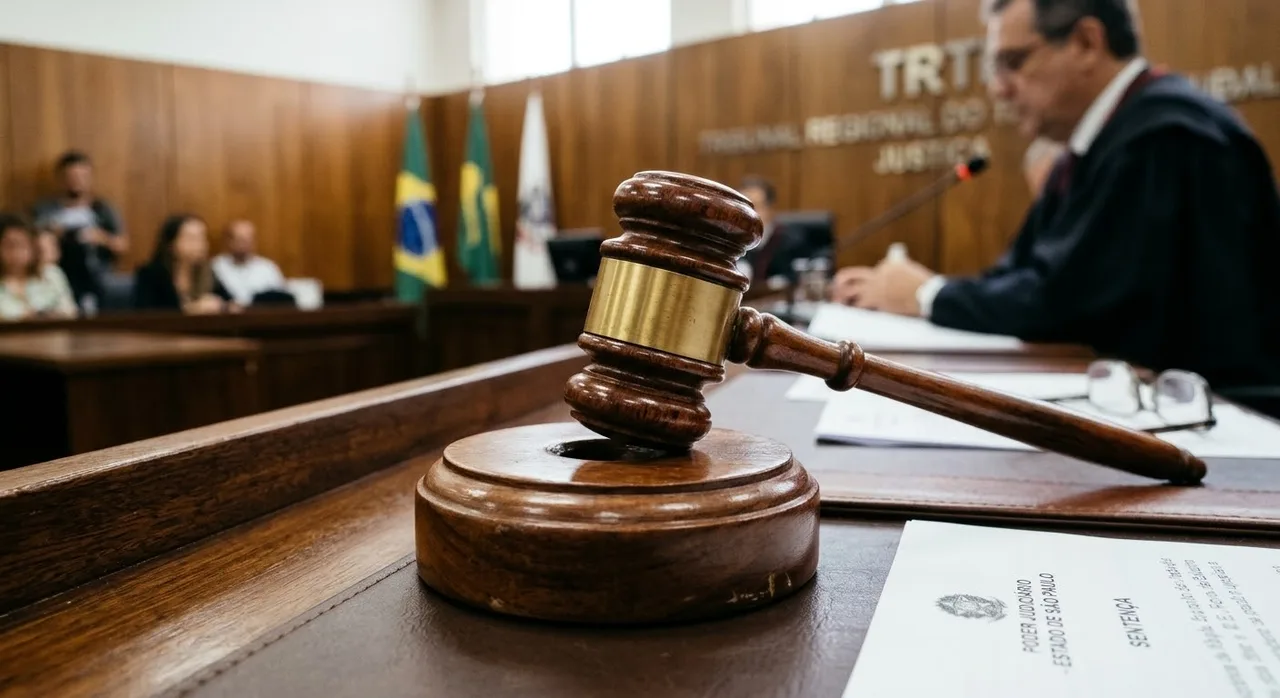
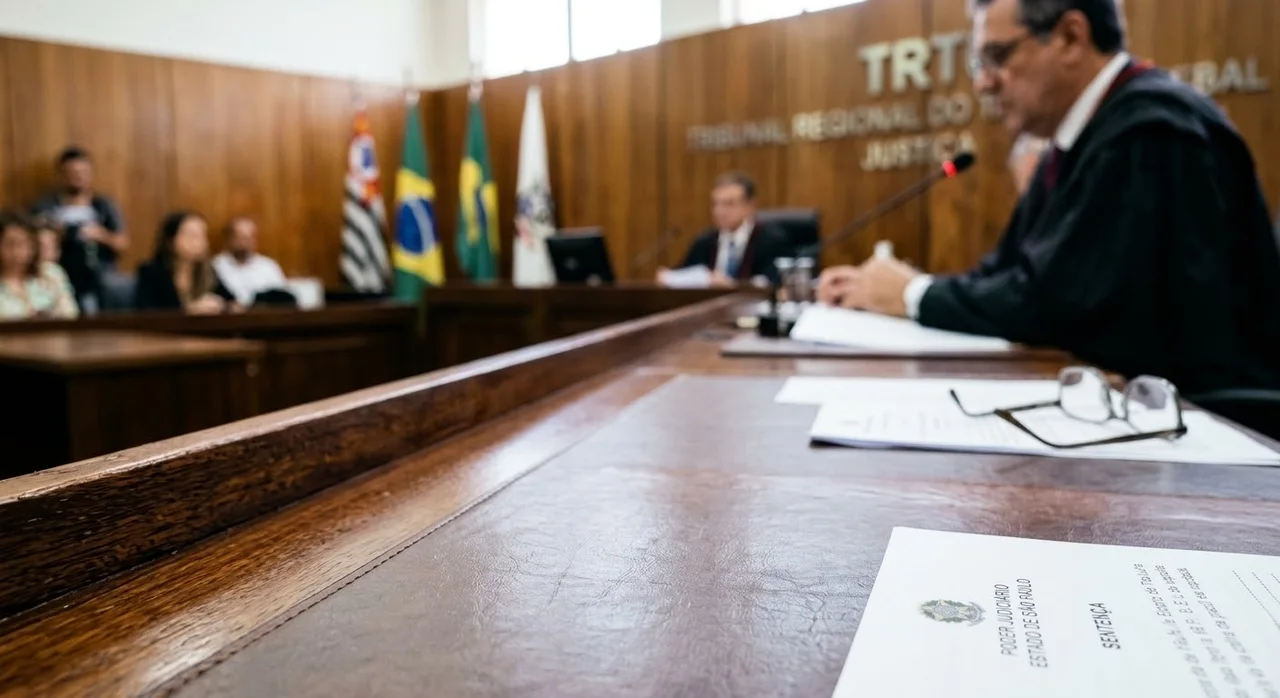
Hangar Escola: novas fotos nos capítulos 11, 14, 15 e 16 do Gol 1907
Claude-Session: https://claude.ai/code/session_01PxKViBYL6qRqF4hkoHqSJb

diff --git a/aviao/desastres.js b/aviao/desastres.js
@@ -706,7 +706,7 @@ const ACIDENTES = [
     p: ["Em 2018, a empresa de exploração do fundo do mar Ocean Infinity propôs à Malásia um acordo diferente: faria a busca por conta própria e só seria paga se encontrasse o avião. Com vários robôs submarinos trabalhando ao mesmo tempo, vasculhou mais de 100.000 km² em poucos meses, ao norte da área anterior. Não encontrou nada.", "Em 2025, onze anos depois do desaparecimento, a Malásia assinou um novo contrato com a empresa, numa nova área considerada provável. As buscas começaram no início de 2025, foram interrompidas pelo mau tempo e recomeçaram no fim de dezembro.", "Em 23 de janeiro de 2026, o navio deixou a área. Em 8 de março de 2026, no 12º aniversário do desaparecimento, a empresa anunciou que tinha vasculhado cerca de metade da área combinada, sem encontrar o avião. “Ele não está onde procuramos”, disse o diretor da empresa.", "Em junho de 2026, o governo da Malásia prorrogou o contrato por mais um ano. A busca pelo MH370 continua."] },
   { t: "O que o relatório disse", parte: 4, hora: "30 de julho de 2018", lugar: "Kuala Lumpur", sabia: "A investigação de segurança segue as regras internacionais da aviação: o objetivo é evitar novos acidentes, e não apontar culpados.", cena: CENAS.relatorioMy,
     p: ["Em 30 de julho de 2018, a equipe de investigação da Malásia publicou o relatório de segurança sobre o MH370. A conclusão principal: não foi possível determinar a causa real do desaparecimento.", "O relatório disse que a meia-volta muito provavelmente foi feita com o avião sendo pilotado à mão, que não havia sinal de pane que explicasse a mudança de rota e que não dava para descartar a interferência de uma terceira pessoa. Também não encontrou nada de anormal na vida, na saúde ou no treinamento dos pilotos.", "Investigações paralelas tinham levantado pontos como os dados apagados do simulador de voo caseiro do comandante, com uma rota simulada para o sul do Índico, e a carga, que incluía baterias de lítio. Nenhum desses pontos foi considerado prova do que aconteceu.", "O relatório criticou os controles de tráfego aéreo de Kuala Lumpur e de Ho Chi Minh pela demora em agir naquela noite e fez 19 recomendações de segurança. Para muitas famílias, foi uma decepção: depois de quatro anos, nenhuma resposta."] },
-  { t: "O que mudou", foto: { src: "assets/gol1907-memorial.webp", legenda: "Recriação de um memorial às vítimas do voo 1907 (imagem ilustrativa; os nomes da placa não são os das vítimas)", tag: "154 vidas · 29 de setembro de 2006" }, parte: 4, hora: "2014–2026", lugar: "No mundo inteiro", sabia: "As famílias das vítimas se organizaram em grupos como o Voice370 e, até hoje, cobram que a busca continue.", cena: CENAS.rastreio,
+  { t: "O que mudou", foto: { src: "assets/gol1907-destrocos.webp", legenda: "Destroços do Boeing do voo 1907 no meio da floresta, vistos do alto durante o resgate", tag: "154 vidas · 29 de setembro de 2006" }, parte: 4, hora: "2014–2026", lugar: "No mundo inteiro", sabia: "As famílias das vítimas se organizaram em grupos como o Voice370 e, até hoje, cobram que a busca continue.", cena: CENAS.rastreio,
     p: ["O MH370 mostrou que, em 2014, um avião de passageiros moderno podia simplesmente sumir. Sobre os oceanos, longe dos radares, ninguém sabia com certeza onde cada avião estava.", "Depois do desaparecimento, a OACI, a organização da aviação civil da ONU, criou novas regras: as empresas passaram a ter de acompanhar a posição dos aviões sobre o oceano pelo menos a cada 15 minutos, e os aviões novos precisam transmitir a posição sozinhos, a cada minuto, quando estão em perigo.", "As caixas-pretas também mudaram: os sinalizadores passaram a ter bateria para 90 dias, em vez de 30, e o gravador de voz dos aviões novos passou a guardar 25 horas de conversa, e não só as últimas duas.", "Mais de doze anos depois, o MH370 continua sendo o maior mistério da aviação moderna. Para as famílias das 239 pessoas a bordo, a espera ainda não terminou."] },
     ],
     linha: [['00:42', 'Decolagem de Kuala Lumpur rumo a Pequim, com 239 pessoas a bordo.', [340, 280]], ['01:19', 'Última voz: “Good night, Malaysian three seven zero.”', [386, 163]],
@@ -754,17 +754,17 @@ const ACIDENTES = [
     p: ["Sem boa parte da asa esquerda, o 737 entrou em parafuso, girando e mergulhando. A velocidade aumentou muito rápido, além do limite que a estrutura aguenta.", "Durante a queda, o avião se partiu ainda no ar. Os pedaços caíram sobre a mata fechada, numa área de difícil acesso perto de Peixoto de Azevedo, no norte do Mato Grosso.", "Do impacto até o chão foram cerca de dois minutos. As 154 pessoas a bordo morreram.", "Foi, naquele momento, o pior acidente aéreo da história do Brasil."] },
   { t: "O pouso na base militar", foto: { src: "assets/gol1907-legacy-dano.webp", legenda: "O N600XL na Base Aérea do Cachimbo, depois do pouso: o winglet da asa esquerda e a ponta do estabilizador da cauda danificados no choque. Foto da Força Aérea Brasileira.", tag: "Os danos no Legacy" }, parte: 2, hora: "Depois do choque", lugar: "Base Aérea do Cachimbo, Pará", sabia: "A Serra do Cachimbo abriga uma base da Força Aérea no meio da floresta, com uma pista longa usada em operações militares e testes.", cena: CENAS.cachimbo,
     p: ["No Legacy, os pilotos declararam emergência e procuraram uma pista. A mais próxima era a da Base Aérea do Cachimbo, uma base da Força Aérea Brasileira no meio da floresta, no sul do Pará.", "Com a asa e a cauda danificadas, eles conseguiram pousar cerca de meia hora depois da colisão. As sete pessoas a bordo saíram ilesas.", "Só em terra eles souberam que tinham batido em outro avião. Nos primeiros momentos, acharam que poderia ter sido algo menor.", "Logo chegou a notícia: um Boeing da Gol tinha desaparecido dos radares na mesma região. Os pilotos tiveram os passaportes retidos e ficaram no Brasil por mais de dois meses, enquanto a polícia e a investigação começavam o trabalho."] },
-  { t: "O avião que não chegou", foto: { src: "assets/gol1907-painel.webp", legenda: "Recriação de um painel de chegadas com o voo 1907 atrasado (imagem ilustrativa; o painel e as outras empresas são de hoje, não de 2006)" }, parte: 3, hora: "29 de setembro", lugar: "Aeroportos de Brasília e do Rio", sabia: "A Gol tinha cinco anos de operação e nunca tinha sofrido um acidente com mortes.", cena: CENAS.painelBsb,
+  { t: "O avião que não chegou", foto: { src: "assets/gol1907-painel.webp", legenda: "Recriação de um painel de chegadas da época, com o voo 1907 atrasado (imagem ilustrativa)" }, parte: 3, hora: "29 de setembro", lugar: "Aeroportos de Brasília e do Rio", sabia: "A Gol tinha cinco anos de operação e nunca tinha sofrido um acidente com mortes.", cena: CENAS.painelBsb,
     p: ["O voo 1907 deveria pousar em Brasília no fim da tarde. No painel de chegadas, o voo apareceu como atrasado. Parentes e amigos esperavam no saguão.", "Aos poucos, a notícia se espalhou pela televisão: um Boeing da Gol tinha desaparecido dos radares sobre o Mato Grosso e um jato executivo tinha feito um pouso de emergência na mesma região.", "No aeroporto de Brasília e no do Rio, as famílias foram levadas para salas reservadas, à espera de notícias. Muitos passaram a noite ali.", "Na madrugada, aviões da Força Aérea já sobrevoavam a floresta procurando qualquer sinal do 737."] },
   { t: "Na mata", foto: { src: "assets/gol1907-mata.webp", legenda: "Recriação da vista de um helicóptero da Força Aérea sobre os destroços na floresta (imagem ilustrativa)", tag: "Destroços no meio da mata" }, parte: 3, hora: "30 de setembro", lugar: "Terra indígena Capoto/Jarina, Mato Grosso", sabia: "A região do acidente fica numa terra indígena, perto do Parque do Xingu. Os destroços caíram numa área de floresta sem estradas.", cena: CENAS.selva,
     p: ["No dia seguinte, 30 de setembro, uma equipe da Força Aérea avistou os destroços no meio da floresta, perto de Peixoto de Azevedo, dentro de uma terra indígena.", "As árvores chegavam a 40 metros de altura, e não havia onde pousar. Militares da Força Aérea e do Exército desceram de helicóptero por cordas até o chão da mata e abriram clareiras a facão e motosserra.", "O trabalho foi duríssimo, com calor, chuva e mata fechada. A esperança de sobreviventes acabou logo: o avião tinha se partido no ar e os pedaços estavam espalhados.", "A operação de resgate e recolhimento dos corpos durou semanas. Foi uma das maiores e mais difíceis já feitas pela Força Aérea na Amazônia."] },
   { t: "O que o relatório encontrou", foto: { src: "assets/gol1907-relatorio.webp", legenda: "Recriação do relatório final do CENIPA sobre o voo 1907 (imagem ilustrativa)", tag: "Dezembro de 2008" }, parte: 4, hora: "Dezembro de 2008", lugar: "CENIPA, Brasília", sabia: "O CENIPA é o órgão da Aeronáutica que investiga acidentes aéreos no Brasil. Como em todo o mundo, o objetivo é prevenir novos acidentes, e não punir.", cena: CENAS.relatorioGol,
     p: ["Em dezembro de 2008, o CENIPA publicou o relatório final, com a participação do NTSB americano. A conclusão: não houve uma única causa, e sim uma série de falhas que se somaram.", "Do lado do controle de tráfego aéreo: a autorização incompleta dada ao Legacy, a falta de ordem para descer depois de Brasília, a perda do transponder que não foi tratada como problema sério, a passagem de turno sem a informação e as falhas de comunicação por rádio.", "Do lado do Legacy: o transponder desligado sem que os pilotos percebessem, a pouca familiaridade com o avião novo e com o espaço aéreo brasileiro e a demora em perceber que estavam sem contato com o controle.", "O NTSB concordou com a maior parte, mas deu mais peso às falhas do controle de tráfego aéreo e ao projeto do aviso de transponder no Legacy, que era fácil de não perceber."] },
-  { t: "O apagão aéreo", foto: { src: "assets/gol1907-apagao.webp", legenda: "Passageiro diante de um painel cheio de cancelamentos (imagem ilustrativa; a foto é de 2022, não do apagão de 2006 e 2007)", tag: "Atrasos e cancelamentos" }, parte: 4, hora: "2006–2007", lugar: "Aeroportos do Brasil", sabia: "Em julho de 2007, menos de um ano depois, o acidente do voo 3054 da TAM em Congonhas, com 199 mortos, passou a ser o pior da história do Brasil.", cena: CENAS.apagao,
+  { t: "O apagão aéreo", foto: { src: "assets/gol1907-apagao.webp", legenda: "Recriação de um painel de Guarulhos no tempo do apagão aéreo, com voos da TAM, Varig, BRA e OceanAir atrasados e cancelados (imagem ilustrativa)", tag: "Atrasos e cancelamentos" }, parte: 4, hora: "2006–2007", lugar: "Aeroportos do Brasil", sabia: "Em julho de 2007, menos de um ano depois, o acidente do voo 3054 da TAM em Congonhas, com 199 mortos, passou a ser o pior da história do Brasil.", cena: CENAS.apagao,
     p: ["O acidente expôs os problemas do controle de tráfego aéreo no Brasil: falta de controladores, jornadas pesadas, equipamentos antigos e buracos na cobertura de rádio e radar.", "Logo depois, os controladores, que eram em sua maioria militares, começaram a trabalhar estritamente pelas regras, reduzindo o número de aviões que aceitavam ao mesmo tempo. Foi o início do chamado apagão aéreo.", "Por meses, os aeroportos do país viveram atrasos enormes, cancelamentos e saguões lotados. Em março de 2007, controladores chegaram a fazer um protesto que parou boa parte dos voos.", "O governo investiu em equipamentos, contratou e formou mais controladores e revisou os procedimentos. A crise só foi se acalmar em 2008."] },
-  { t: "Na Justiça", foto: { src: "assets/gol1907-justica.webp", legenda: "Recriação de uma sala de tribunal (imagem ilustrativa; nos tribunais brasileiros não se usa martelo)", tag: "Pilotos condenados · controladores absolvidos" }, parte: 4, hora: "2007–2015", lugar: "Justiça Federal e Justiça Militar", sabia: "Os dois pilotos do Legacy voltaram aos Estados Unidos em dezembro de 2006 e responderam ao processo de lá.", cena: CENAS.justica,
+  { t: "Na Justiça", foto: { src: "assets/gol1907-justica.webp", legenda: "Recriação de uma sala de tribunal (imagem ilustrativa)", tag: "Pilotos condenados · controladores absolvidos" }, parte: 4, hora: "2007–2015", lugar: "Justiça Federal e Justiça Militar", sabia: "Os dois pilotos do Legacy voltaram aos Estados Unidos em dezembro de 2006 e responderam ao processo de lá.", cena: CENAS.justica,
     p: ["O Ministério Público Federal denunciou os dois pilotos do Legacy e quatro controladores de voo por atentado contra a segurança do transporte aéreo.", "Os pilotos Joseph Lepore e Jan Paul Paladino foram condenados pela Justiça Federal em 2011. Depois de recursos, o STJ fixou a pena em três anos, um mês e dez dias, convertida em serviços à comunidade. Eles vivem nos Estados Unidos e nunca cumpriram a pena no Brasil.", "Na Justiça comum, os controladores foram absolvidos, decisão mantida pelo STJ. Na Justiça Militar, um dos controladores foi condenado em 2010 a um ano e dois meses de detenção, por não ter repassado a informação de que o Legacy estava sem transponder.", "Para muitas famílias, ficou a sensação de que ninguém foi de fato responsabilizado. As associações de parentes continuam lembrando a data todo ano."] },
-  { t: "O que mudou", foto: { src: "assets/gol1907-memorial.webp", legenda: "Recriação de um memorial às vítimas do voo 1907 (imagem ilustrativa; os nomes da placa não são os das vítimas)", tag: "154 vidas · 29 de setembro de 2006" }, parte: 4, hora: "2006–hoje", lugar: "No Brasil e no mundo", sabia: "Até hoje, o voo 1907 é estudado em cursos de controle de tráfego aéreo e de pilotagem como exemplo de como pequenas falhas se somam até virar uma tragédia.", cena: CENAS.memoriaGol,
+  { t: "O que mudou", foto: { src: "assets/gol1907-destrocos.webp", legenda: "Destroços do Boeing do voo 1907 no meio da floresta, vistos do alto durante o resgate", tag: "154 vidas · 29 de setembro de 2006" }, parte: 4, hora: "2006–hoje", lugar: "No Brasil e no mundo", sabia: "Até hoje, o voo 1907 é estudado em cursos de controle de tráfego aéreo e de pilotagem como exemplo de como pequenas falhas se somam até virar uma tragédia.", cena: CENAS.memoriaGol,
     p: ["O controle de tráfego aéreo brasileiro passou por uma grande reforma: mais controladores, mais treinamento em inglês, melhor cobertura de rádio sobre a Amazônia e regras mais claras para autorizações e trocas de turno.", "O aviso de transponder desligado na cabine passou a ser visto como um ponto fraco a ser melhorado, para que chame mais atenção dos pilotos.", "No mundo todo, a perda do sinal do transponder de um avião passou a ser tratada com mais urgência pelos controladores.", "No local do acidente, em Mato Grosso, e em cidades de onde vinham as vítimas, há memoriais com os nomes das 154 pessoas do voo 1907."] },
     ],
     linha: [['15:35', 'O Boeing da Gol decola de Manaus rumo a Brasília, com 154 pessoas a bordo.', 0], ['16:02', 'Do outro lado da rota, o transponder do Legacy para de responder. O TCAS dos dois aviões fica cego.', .33],

diff --git a/aviao/sw.js b/aviao/sw.js
@@ -1,7 +1,7 @@
 /* Service worker: o app abre e funciona offline. */
-const CACHE = 'hangar-escola-v161';
+const CACHE = 'hangar-escola-v162';
 // Os arquivos levam "?v=" no index.html: ao mudar a versão, o celular nunca mistura CSS/JS antigo com HTML novo.
-const FILES = ['./', 'index.html', 'style.css?v=161', 'avioes.js?v=161', 'catalogo747.js?v=161', 'cockpit747.js?v=161', 'motor3d.js?v=161', 'motor747.js?v=161', 'meteo.js?v=161', 'radio.js?v=161', 'historia.js?v=161', 'desastres.js?v=161', 'app.js?v=161', 'icon.svg', 'apple-touch-icon.png', 'icon-192.png', 'icon-512.png', 'manifest.webmanifest', 'assets/747-lateral.jpg', 'assets/747-frontal.jpg', 'assets/747-motor.jpg', 'assets/747-superior.png', 'assets/747-lado.webp', 'assets/747-lado-prof.webp', 'assets/747-tras.webp', 'assets/747-tras-trem.webp', 'assets/bank-angle.mp3', 'assets/v1.mp3', 'assets/nuvem-cb.webp', 'assets/nuvem-cu.webp', 'assets/nuvem-ci.webp', 'assets/nuvem-cc.webp', 'assets/nuvem-cs.webp', 'assets/nuvem-ac.webp', 'assets/nuvem-as.webp', 'assets/nuvem-ns.webp', 'assets/nuvem-sc.webp', 'assets/nuvem-st.webp', 'assets/nuvens-atlas.webp', 'assets/historia-1881.webp', 'assets/historia-vevey.webp', 'assets/historia-serraria.webp', 'assets/historia-dominguez.webp', 'assets/historia-curtiss.webp', 'assets/jal123-mapa.webp', 'assets/jal123-haneda.webp', 'assets/jal123-decolagem.webp', 'assets/jal123-cauda.webp', 'assets/jal123-cabine.webp', 'assets/jal123-hidraulico.webp', 'assets/jal123-manetes.webp', 'assets/jal123-montanhas.webp', 'assets/jal123-bilhete.webp', 'assets/jal123-c130.webp', 'assets/jal123-deriva.webp', 'assets/af447-mapa.webp', 'assets/af447-galeao.webp', 'assets/af447-decolagem.webp', 'assets/af447-lua.webp', 'assets/af447-tempestade.webp', 'assets/af447-painel.webp', 'assets/cauda-af.webp', 'assets/cauda-jal.webp', 'assets/cauda-mh.webp', 'assets/cauda-gol.webp', 'assets/gol1907-mapa.webp', 'assets/gol1907-legacy-sjc.webp', 'assets/gol1907-737.webp', 'assets/gol1907-legacy-voo.webp', 'assets/gol1907-cabine-legacy.webp', 'assets/gol1907-acc.webp', 'assets/gol1907-choque.webp', 'assets/gol1907-queda.webp', 'assets/gol1907-legacy-dano.webp', 'assets/gol1907-painel.webp', 'assets/gol1907-mata.webp', 'assets/gol1907-relatorio.webp', 'assets/gol1907-apagao.webp', 'assets/gol1907-justica.webp', 'assets/gol1907-memorial.webp', 'assets/gol1907-controle.webp', 'assets/af447-pitot.webp', 'assets/af447-pitot-gelo.webp', 'assets/af447-manches.webp', 'assets/af447-estol.webp', 'assets/af447-cabine.webp', 'assets/af447-queda.webp', 'assets/af447-deriva.webp', 'assets/af447-painel-voos.webp', 'assets/af447-fundo.webp', 'assets/af447-relatorio.webp', 'assets/af447-sondas.webp', 'assets/af447-tribunal.webp', 'assets/af447-estol-diagrama.webp', 'assets/mh370-mapa.webp', 'assets/mh370-klia.webp', 'assets/mh370-decolagem.webp', 'assets/mh370-cinto.webp', 'assets/mh370-radar.webp', 'assets/mh370-peninsula.webp', 'assets/mh370-oceano.webp', 'assets/mh370-ultimo-eco.webp', 'assets/mh370-satelite.webp', 'assets/mh370-busca.webp', 'assets/mh370-bluefin.webp'];
+const FILES = ['./', 'index.html', 'style.css?v=162', 'avioes.js?v=162', 'catalogo747.js?v=162', 'cockpit747.js?v=162', 'motor3d.js?v=162', 'motor747.js?v=162', 'meteo.js?v=162', 'radio.js?v=162', 'historia.js?v=162', 'desastres.js?v=162', 'app.js?v=162', 'icon.svg', 'apple-touch-icon.png', 'icon-192.png', 'icon-512.png', 'manifest.webmanifest', 'assets/747-lateral.jpg', 'assets/747-frontal.jpg', 'assets/747-motor.jpg', 'assets/747-superior.png', 'assets/747-lado.webp', 'assets/747-lado-prof.webp', 'assets/747-tras.webp', 'assets/747-tras-trem.webp', 'assets/bank-angle.mp3', 'assets/v1.mp3', 'assets/nuvem-cb.webp', 'assets/nuvem-cu.webp', 'assets/nuvem-ci.webp', 'assets/nuvem-cc.webp', 'assets/nuvem-cs.webp', 'assets/nuvem-ac.webp', 'assets/nuvem-as.webp', 'assets/nuvem-ns.webp', 'assets/nuvem-sc.webp', 'assets/nuvem-st.webp', 'assets/nuvens-atlas.webp', 'assets/historia-1881.webp', 'assets/historia-vevey.webp', 'assets/historia-serraria.webp', 'assets/historia-dominguez.webp', 'assets/historia-curtiss.webp', 'assets/jal123-mapa.webp', 'assets/jal123-haneda.webp', 'assets/jal123-decolagem.webp', 'assets/jal123-cauda.webp', 'assets/jal123-cabine.webp', 'assets/jal123-hidraulico.webp', 'assets/jal123-manetes.webp', 'assets/jal123-montanhas.webp', 'assets/jal123-bilhete.webp', 'assets/jal123-c130.webp', 'assets/jal123-deriva.webp', 'assets/af447-mapa.webp', 'assets/af447-galeao.webp', 'assets/af447-decolagem.webp', 'assets/af447-lua.webp', 'assets/af447-tempestade.webp', 'assets/af447-painel.webp', 'assets/cauda-af.webp', 'assets/cauda-jal.webp', 'assets/cauda-mh.webp', 'assets/cauda-gol.webp', 'assets/gol1907-mapa.webp', 'assets/gol1907-legacy-sjc.webp', 'assets/gol1907-737.webp', 'assets/gol1907-legacy-voo.webp', 'assets/gol1907-cabine-legacy.webp', 'assets/gol1907-acc.webp', 'assets/gol1907-choque.webp', 'assets/gol1907-queda.webp', 'assets/gol1907-legacy-dano.webp', 'assets/gol1907-painel.webp', 'assets/gol1907-mata.webp', 'assets/gol1907-relatorio.webp', 'assets/gol1907-apagao.webp', 'assets/gol1907-justica.webp', 'assets/gol1907-destrocos.webp', 'assets/gol1907-controle.webp', 'assets/af447-pitot.webp', 'assets/af447-pitot-gelo.webp', 'assets/af447-manches.webp', 'assets/af447-estol.webp', 'assets/af447-cabine.webp', 'assets/af447-queda.webp', 'assets/af447-deriva.webp', 'assets/af447-painel-voos.webp', 'assets/af447-fundo.webp', 'assets/af447-relatorio.webp', 'assets/af447-sondas.webp', 'assets/af447-tribunal.webp', 'assets/af447-estol-diagrama.webp', 'assets/mh370-mapa.webp', 'assets/mh370-klia.webp', 'assets/mh370-decolagem.webp', 'assets/mh370-cinto.webp', 'assets/mh370-radar.webp', 'assets/mh370-peninsula.webp', 'assets/mh370-oceano.webp', 'assets/mh370-ultimo-eco.webp', 'assets/mh370-satelite.webp', 'assets/mh370-busca.webp', 'assets/mh370-bluefin.webp'];
 
 self.addEventListener('install', (e) => {
   e.waitUntil(caches.open(CACHE).then((c) => c.addAll(FILES)).then(() => self.skipWaiting()));

diff --git a/aviao/index.html b/aviao/index.html
@@ -17,7 +17,7 @@
   <link rel="preconnect" href="https://fonts.googleapis.com">
   <link rel="preconnect" href="https://fonts.gstatic.com" crossorigin>
   <link href="https://fonts.googleapis.com/css2?family=Barlow+Condensed:wght@500;600;700&family=IBM+Plex+Mono:wght@400;500&family=IBM+Plex+Sans:wght@400;500;600&display=swap" rel="stylesheet">
-  <link rel="stylesheet" href="style.css?v=161">
+  <link rel="stylesheet" href="style.css?v=162">
 </head>
 <body>
   <!-- Intro: o avião decola pela pista iluminada e aparece o nome do app (toque para pular) -->
@@ -989,16 +989,16 @@
       </div>
     </section>
   </aside>
-  <script src="avioes.js?v=161"></script>
-  <script src="catalogo747.js?v=161"></script>
-  <script src="cockpit747.js?v=161"></script>
-  <script src="motor3d.js?v=161"></script>
-  <script src="motor747.js?v=161"></script>
-  <script src="meteo.js?v=161"></script>
-  <script src="radio.js?v=161"></script>
-  <script src="historia.js?v=161"></script>
-  <script src="desastres.js?v=161"></script>
-  <script src="app.js?v=161"></script>
+  <script src="avioes.js?v=162"></script>
+  <script src="catalogo747.js?v=162"></script>
+  <script src="cockpit747.js?v=162"></script>
+  <script src="motor3d.js?v=162"></script>
+  <script src="motor747.js?v=162"></script>
+  <script src="meteo.js?v=162"></script>
+  <script src="radio.js?v=162"></script>
+  <script src="historia.js?v=162"></script>
+  <script src="desastres.js?v=162"></script>
+  <script src="app.js?v=162"></script>
   <script>
     // No APK os arquivos já vêm dentro do app; o service worker é só para o site.
     const nativo = !!(window.Capacitor && window.Capacitor.isNativePlatform && window.Capacitor.isNativePlatform());
